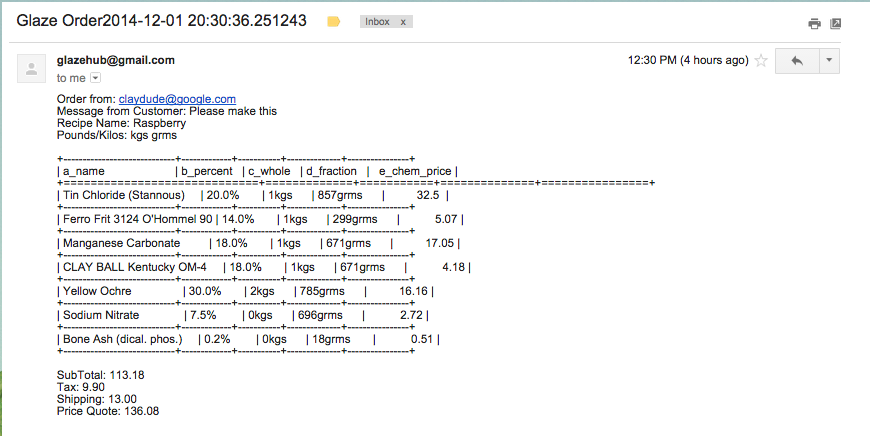
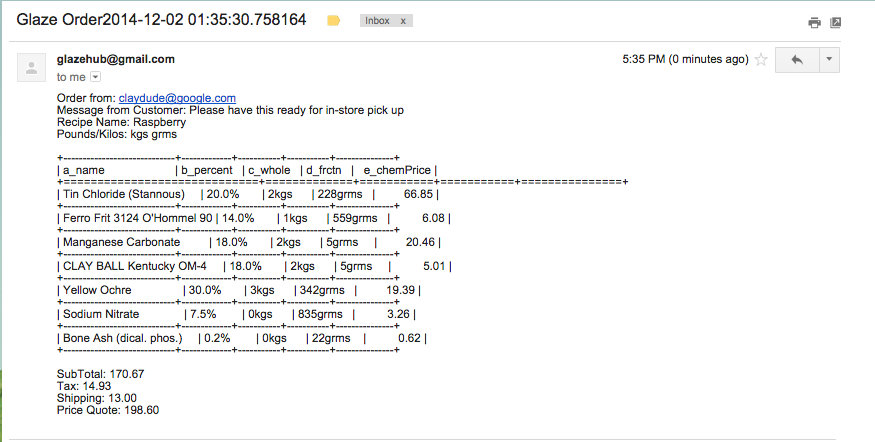
updated screen caps

diff --git a/glazehub.py b/glazehub.py
@@ -392,7 +392,7 @@ def batchSizeChange(userViewID, recipeName):
             'b_percent': components[j].percentage,
             'c_whole': wholeNumList[i],
             'd_frctn': frctnList[i],
-            'e_chemPrice': "{0:.2f}".format(priceList[i])
+            'e_chemPrice': priceList[i]
         }
 
         compList.append(dict_of_comp)
@@ -570,8 +570,9 @@ def emailCPSend(userViewID, recipeName, batchSize):
         sorted_data['b_percent'] = str(datum.get('b_percent')) + "%"
         sorted_data['c_whole'] = str(datum.get('c_whole')) + wholesys
         sorted_data['d_frctn'] = str(datum.get('d_frctn')) + frctnsys
-        sorted_data['e_chemPrice'] = str(datum.get('e_chem_price'))
+        sorted_data['e_chemPrice'] = round((datum.get('e_chemPrice')), 2)
         data_list.append(sorted_data)
+        print sorted_data['e_chemPrice']
 
     table = tabulate(data_list, headers='keys', tablefmt="grid")
 
